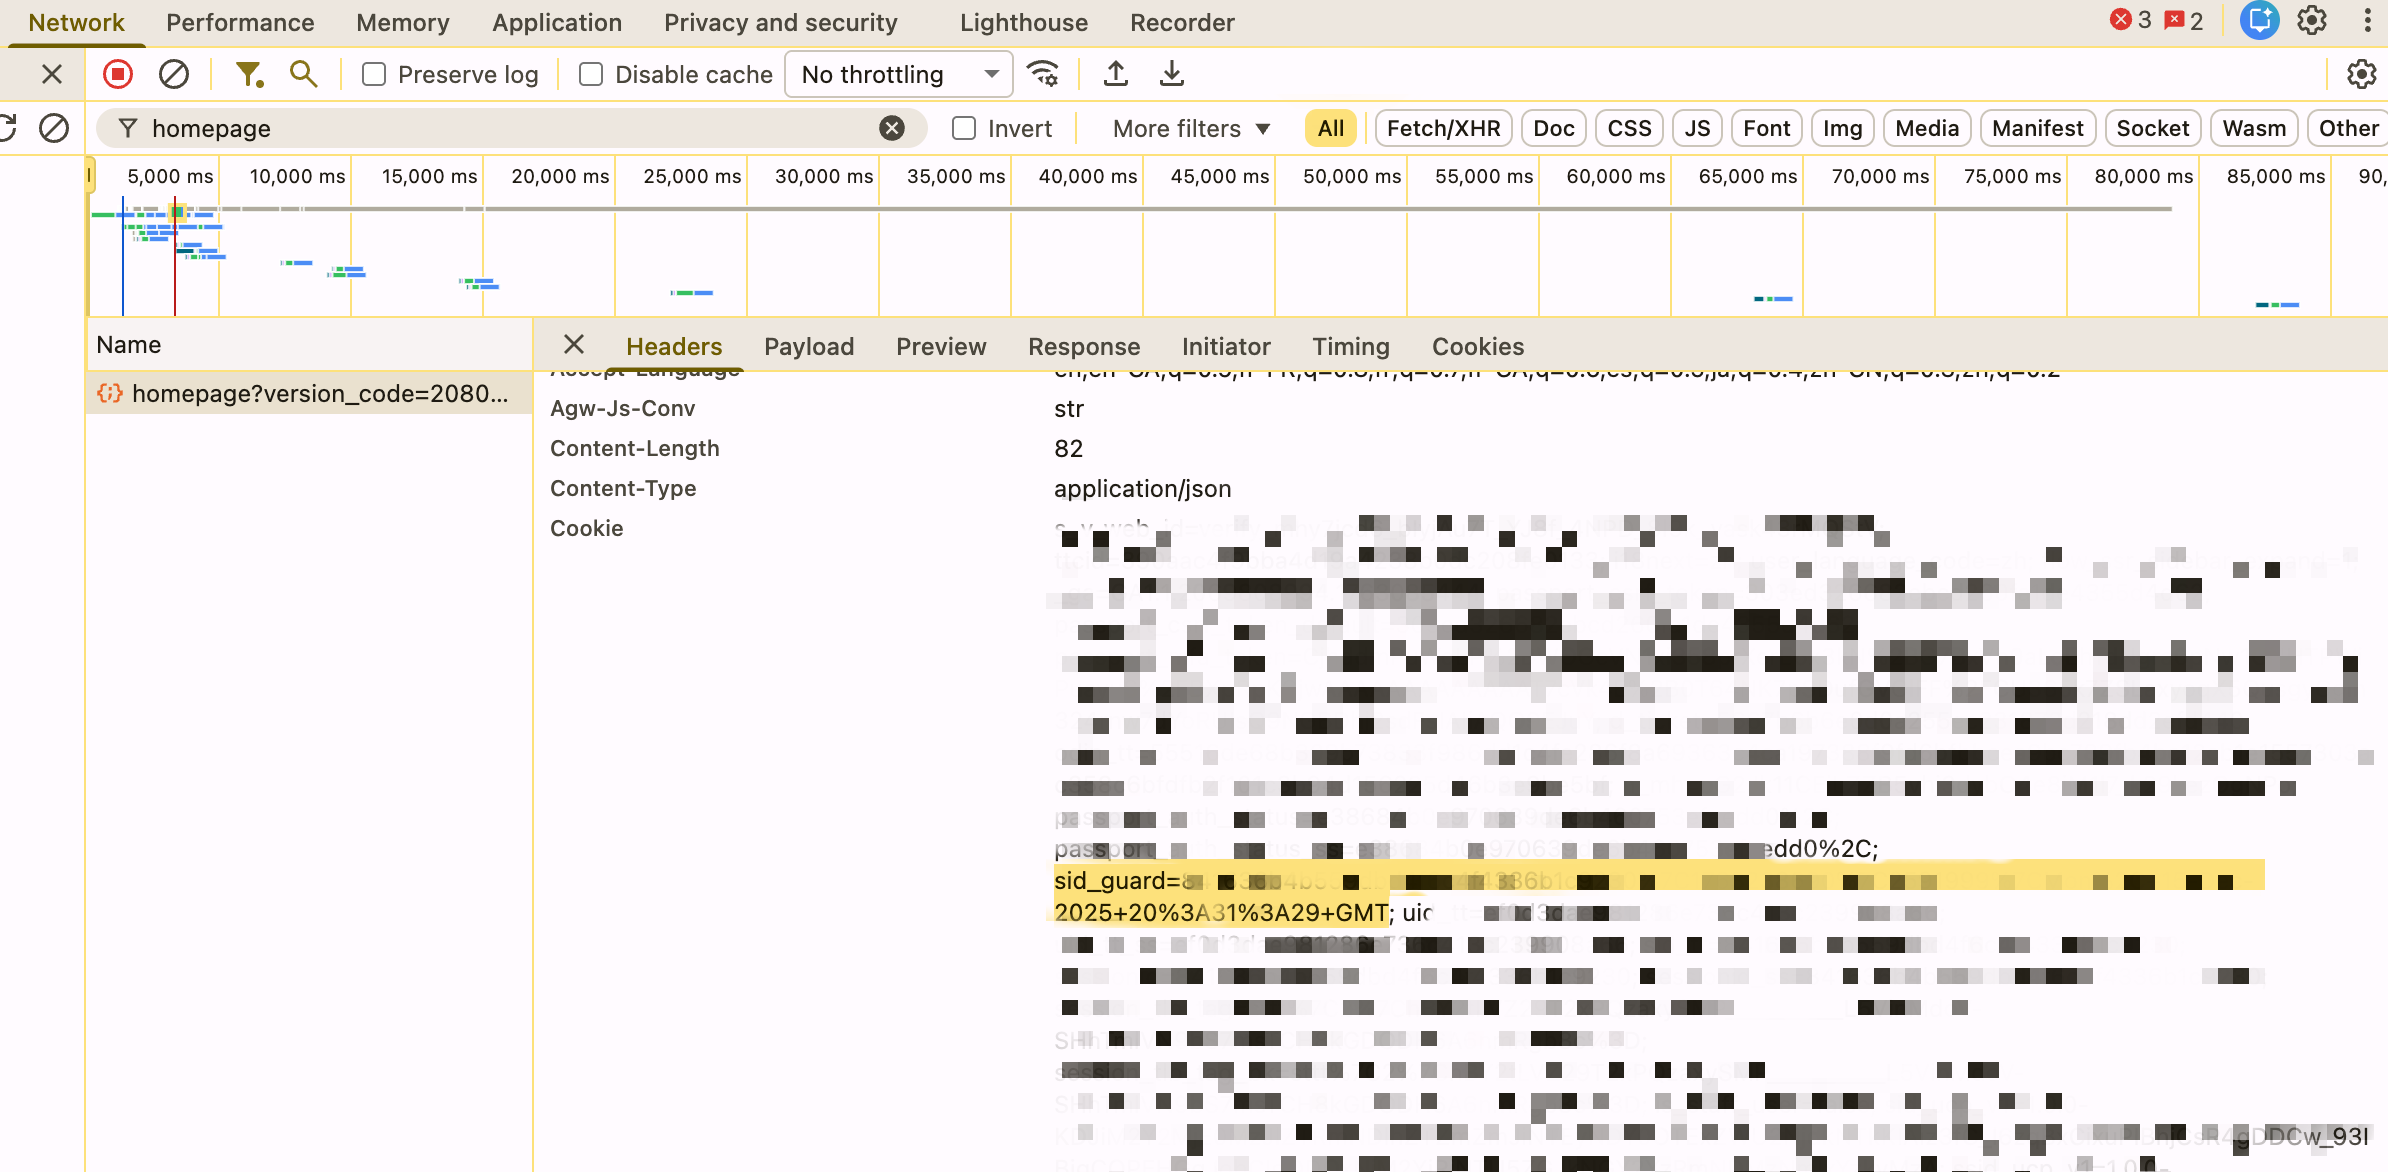
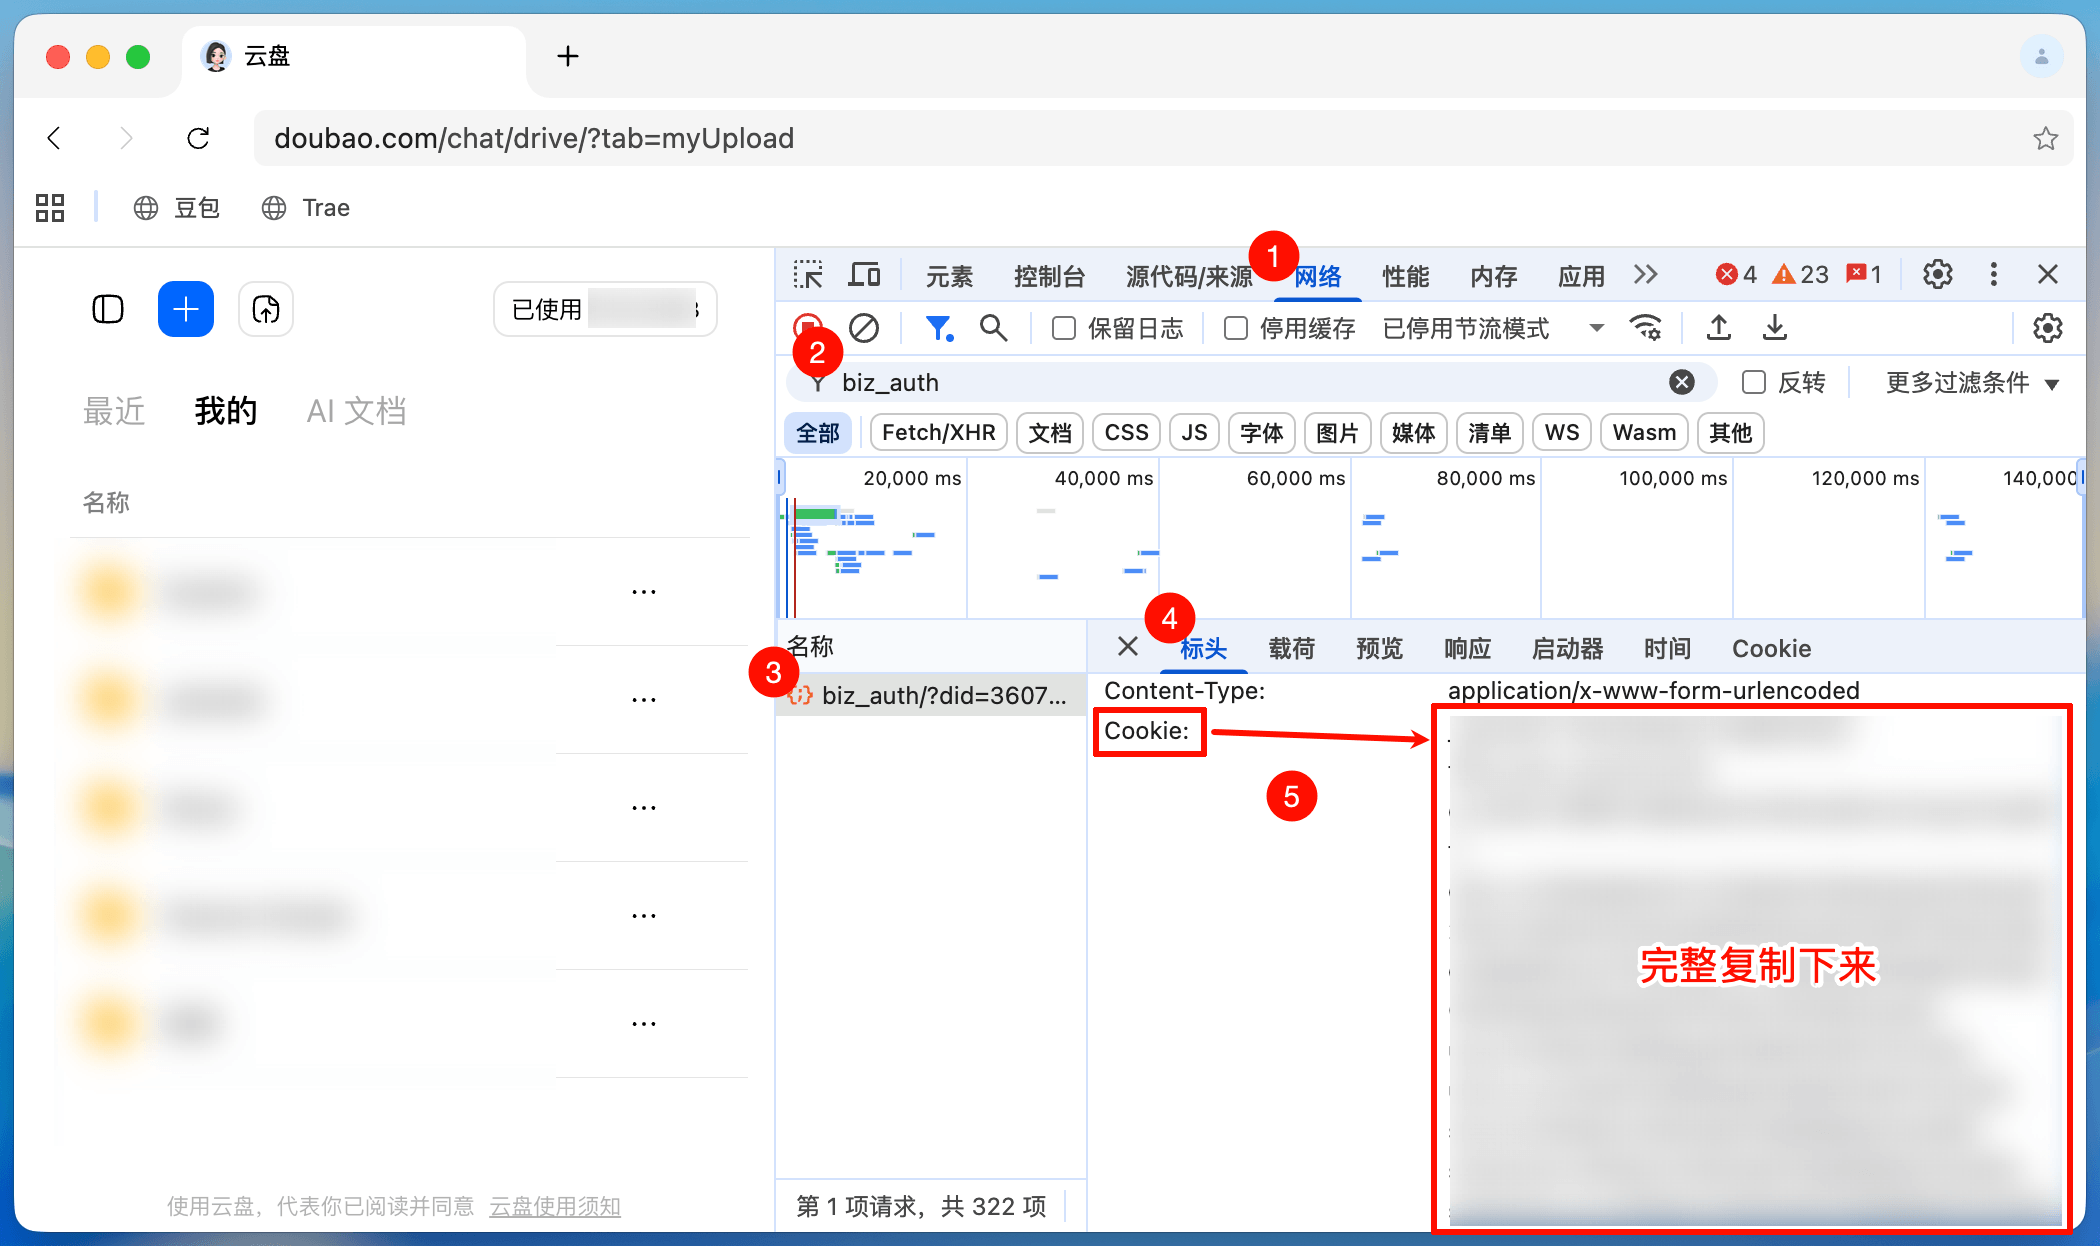
docs(doubao): update to doubao new (#316)

diff --git a/pages/guide/drivers/doubao.md b/pages/guide/drivers/doubao.md
@@ -14,28 +14,45 @@ categories:
 <!--@include: @/snippets/reverse-tip.md-->
 
 ::: en
-Mount [Doubao Drive](https://www.doubao.com/drive/) cloud storage.
+Mount [Doubao Drive](https://www.doubao.com/chat/drive/) cloud storage.
 
 :::
 ::: zh-CN
-挂载 [豆包云盘](https://www.doubao.com/drive/) 云存储。
+挂载 [豆包云盘](https://www.doubao.com/chat/drive/) 云存储。
+
+:::
+
+::: en
+::: danger Security Risk
+
+Do not use 302 if the storage is public accessible.
+Otherwise, the download link may leak sensitive information such as access token or signature.
+Others may use the leaked link to **access all your files**.
+
+:::
+::: zh-CN
+::: danger 安全风险
+
+若存储可公开访问，则请勿使用302重定向。
+否则，下载链接可能泄露访问令牌、签名等敏感信息。
+他人可利用泄露的链接**访问你所有的文件**。
 
 :::
 
 ## Root folder ID { lang="en" }
 
-::: en
-The root folder ID needs to be obtained manually. Open browser developer tools, visit [Doubao Drive](https://www.doubao.com/drive/), log in to your account, open the `Network` tab, search for `homepage`, switch to the `Preview` tab, where `root_id` is the root folder ID.
-![Doubao Drive Session Token](/img/drivers/doubao/doubao-root-folder-path.png)
-
-:::
-
 ## 根文件夹ID { lang="zh-CN" }
 
-::: zh-CN
-根文件夹ID需要手动获取，打开浏览器开发者工具，访问 [豆包云盘](https://www.doubao.com/drive/)，登陆你的账户，打开`network(网络)`栏，搜索 `homepage`，切换到 `Preview(预览)`栏，其中root_id为根文件夹ID。
-![Doubao Drive Root Folder ID](/img/drivers/doubao/doubao-root-folder-path.png)
+::: en
+The root folder ID is the parameter value displayed in the address bar when accessing Doubao Drive via a web page. For example, after accessing [Doubao Drive](https://www.doubao.com/chat/drive/), the address bar shows `https://www.doubao.com/chat/drive/AAAAAAAAAAAAAAAAAAAAAAAAAA?tab=myUpload`, where `AAAAAAAAAAAAAAAAAAAAAAAAAA` is the root folder ID.
 
+![Doubao Drive Root Folder ID](/img/drivers/doubao/doubao-root-folder-id.png)
+:::
+
+::: zh-CN
+根文件夹ID即为网页访问豆包云盘时地址栏中的参数值，例如访问[豆包云盘](https://www.doubao.com/chat/drive/)后，地址栏显示为`https://www.doubao.com/chat/drive/AAAAAAAAAAAAAAAAAAAAAAAAAA?tab=myUpload`，其中`AAAAAAAAAAAAAAAAAAAAAAAAAA`即为根文件夹ID。
+
+![豆包云盘根文件夹ID](/img/drivers/doubao/doubao-root-folder-id.png)
 :::
 
 ## Cookie { lang="zh-CN" }
@@ -43,16 +60,82 @@ The root folder ID needs to be obtained manually. Open browser developer tools, 
 ## Cookie { lang="en" }
 
 ::: en
-Web Cookie
+Required. Web cookie. Used to refresh token and extract Authorization/DPoP tokens.
 
-Open browser developer tools, visit [Doubao Drive](https://www.doubao.com/drive/), log in to your account, check the `Network` tab, search for `homepage` and open it, find `Cookie` in the `Header`, copy the `sid_guard` value and fill it in (note: please copy all the way to the end including +GMT).
+Open browser developer tools, visit [Doubao Drive](https://www.doubao.com/drive/), log in to your account, check the `Network` tab, search for `biz_auth` and open it, find `Cookie` in the `Header`, copy the complete value and fill it in.
 
 ![Doubao Drive Cookie](/img/drivers/doubao/doubao-cookie.png)
+
+OpenList will automatically extract other attributes from the Cookie. Please ensure that the Cookie contains the following key-value pairs:
+
+- `LARK_SUITE_DPOP`
+- `LARK_SUITE_ACCESS_TOKEN`
+- `feishu_dpop_keypair` (used for key generation, optional)
+
 :::
 ::: zh-CN
-网页Cookie
+必填，网页 Cookie。用于刷新 Token 和提取 Authorization/DPoP Token。
 
-打开浏览器开发者工具，访问 [豆包云盘](https://www.doubao.com/drive/)，登录账号后，查看`Network`（网络）Tab，搜索`homepage`并打开`homepage`，在`Header`（标头）中找到`Cookie`，复制其`sid_guard`值填入即可（注意，请一直复制到+GMT结束）。
+打开浏览器开发者工具，访问 [豆包云盘](https://www.doubao.com/drive/)，登录账号后，查看`Network`（网络）Tab，搜索 `biz_auth` 并打开它，在 `Header`（标头）中找到 `Cookie`，复制其完整值填入即可。
 
-![Doubao Drive Cookie](/img/drivers/doubao/doubao-cookie.png)
+![豆包云盘Cookie](/img/drivers/doubao/doubao-cookie.png)
+
+OpenList 会自动从 Cookie 中提取其他属性。请确保 Cookie 中包含以下键值对：
+
+- `LARK_SUITE_DPOP`
+- `LARK_SUITE_ACCESS_TOKEN`
+- `feishu_dpop_keypair` （用于密钥生成，可选）
+
+:::
+
+## App ID { lang="en" }
+
+## App ID { lang="zh-CN" }
+
+::: en
+必填，Doubao's App ID. The App ID may vary for different clients, please refer to the actual value.
+:::
+
+::: zh-CN
+必填，豆包的App ID。不同客户端的App ID可能不相同，请以实际为准。
+:::
+
+## DPoP Key Secret, Auth Client ID, Auth Scope, Auth SDK Source, Auth SDK Version { lang="en" }
+
+## DPoP 密钥、认证客户端ID、认证区域、认证SDK来源、认证SDK版本 { lang="zh-CN" }
+
+::: en
+Optional, for Token refresh. Please obtain it yourself, and refer to the actual value.
+:::
+
+::: zh-CN
+可选，用于刷新 Token。请自行获取，以实际为准。
+:::
+
+## Share Link { lang="en" }
+
+## 分享链接 { lang="zh-CN" }
+
+::: en
+Whether to use share link for download. If enabled, OpenList will create share and request with anonymous user's token to create download link. This can reduce authorization leak.
+
+Please ensure you have filled all authentication options above before enabling this function.
+:::
+
+::: zh-CN
+是否使用分享链接下载。启用后，OpenList 将创建分享然后使用匿名用户Token请求创建下载链接以减少授权泄露。
+
+请确保您在启用此功能前已经填写了上面的所有认证参数。
+:::
+
+## Ignore JWT Check { lang="en" }
+
+## 忽略 JWT 检查 { lang="zh-CN" }
+
+::: en
+Whether to ignore JWT check to prevent time issue
+:::
+
+::: zh-CN
+是否忽略 JWT 检查以避免时间问题。
 :::
